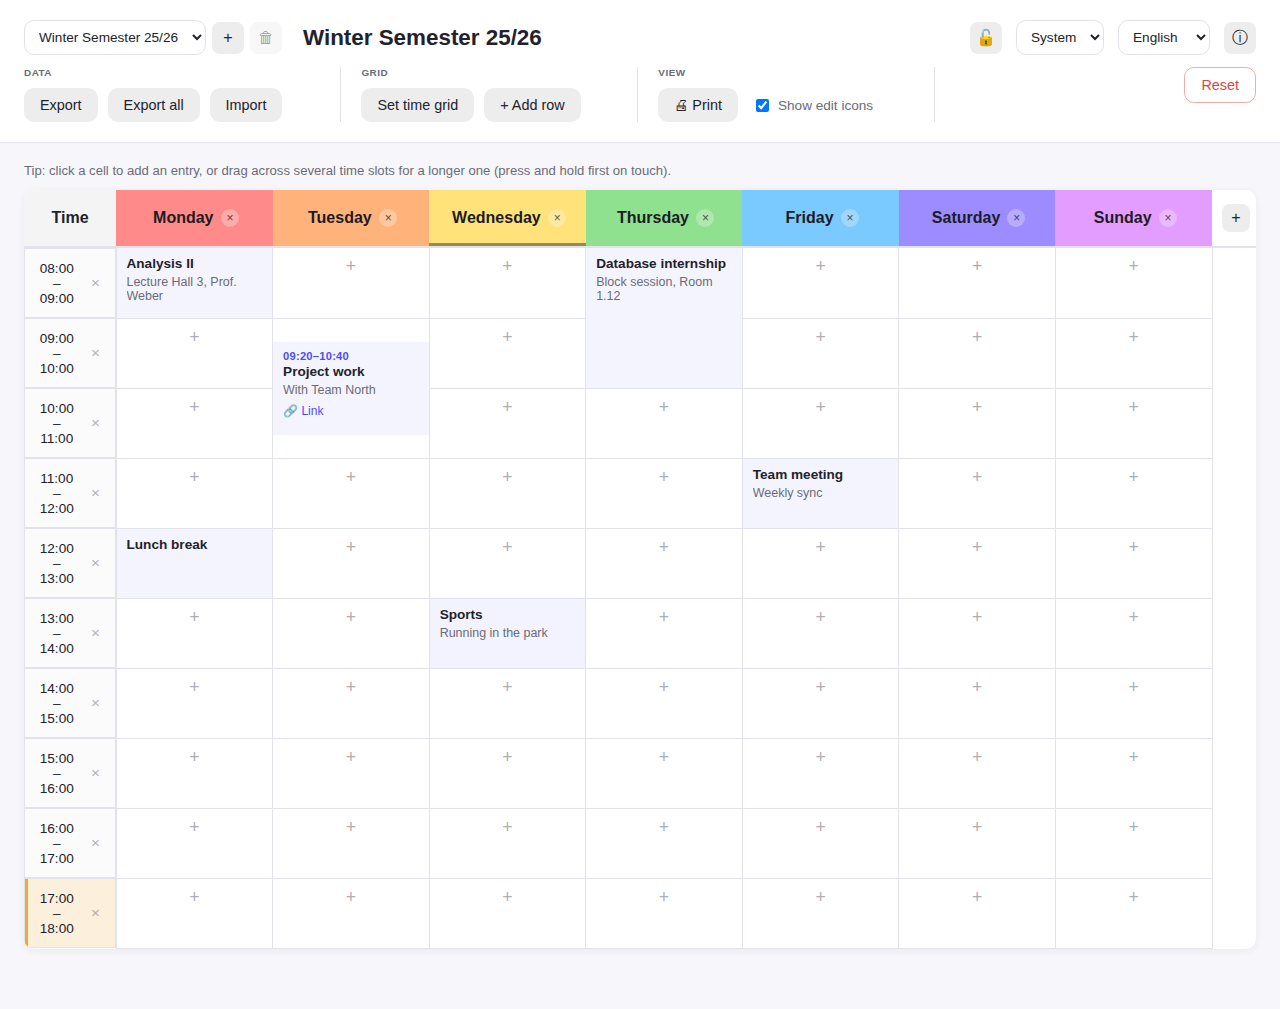
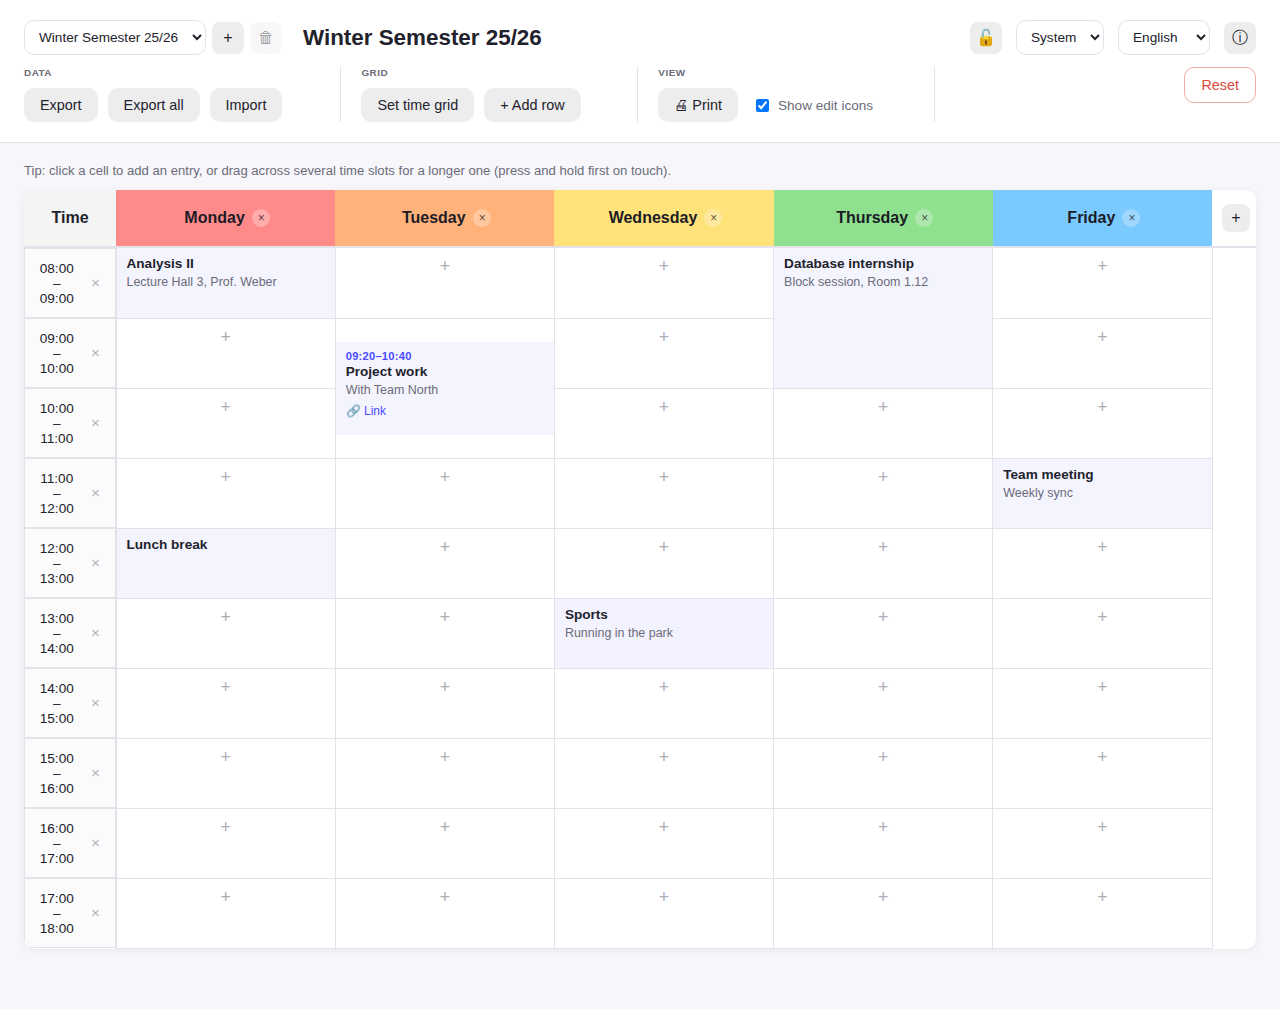
Add dark+locked screenshot, drop weekend from the university example, keep the lock button on the title's row
- New second example plan in scripts/screenshots.js: a German
  "Mein Alltag" everyday-life schedule (all 7 days, 08:00-22:00 in a
  2h raster) shown in dark mode with editing locked, for a new
  app-dark-locked.png. The existing university example now drops its
  Saturday/Sunday columns, since a semester timetable has no weekend
  classes.
- #editLockBtn now shares a .title-row flex wrapper with #planTitle
  instead of being a direct .header-top child, so it stays on the
  title's line instead of falling onto its own row once .header-top
  switches to a column layout below 600px — the locked+narrow header
  is back down to a single compact row.

diff --git a/scripts/screenshots.js b/scripts/screenshots.js
@@ -1,6 +1,7 @@
 // Generates the README screenshots from a live run of the app: a populated
-// weekly plan, the entry modal, and the time-raster modal. Run locally with
-// `npm run screenshots`, or automatically via
+// weekly plan (a university timetable, light mode), a second plan in dark
+// mode with editing locked, the entry modal, and the time-raster modal. Run
+// locally with `npm run screenshots`, or automatically via
 // .github/workflows/screenshots.yml on every push to main.
 import { chromium } from "playwright";
 import http from "node:http";
@@ -62,6 +63,22 @@ async function addEntry(page, { day, row, rowEnd, title, description, link, star
   await page.click("#saveEntryBtn");
 }
 
+// Removes a day column by its current display name (must be an exact match
+// of the full, non-abbreviated .day-name text).
+async function removeDayColumn(page, dayName) {
+  await page
+    .locator("th.day-col")
+    .filter({ has: page.locator(".day-name", { hasText: dayName }) })
+    .locator(".col-remove-btn")
+    .click();
+}
+
+// Removes the last (bottommost) row — used to trim the trailing empty rows
+// a raster narrower than the initial row count leaves behind.
+async function removeLastRow(page) {
+  await page.locator("#planBody tr").last().locator(".row-remove-btn").click();
+}
+
 async function main() {
   const server = await startServer();
   const browser = await chromium.launch();
@@ -79,6 +96,11 @@ async function main() {
   await page.keyboard.press("Control+A");
   await page.keyboard.type("Winter Semester 25/26");
   await page.keyboard.press("Enter");
+
+  // A university timetable has no weekend classes — drop those two columns
+  // rather than just leaving them empty.
+  await removeDayColumn(page, "Saturday");
+  await removeDayColumn(page, "Sunday");
 
   await page.click("#timePresetBtn");
   await page.fill("#rasterInterval", "60");
@@ -121,7 +143,8 @@ async function main() {
   // custom start/end time below is chosen to actually sit inside that hour
   // (a sub-raster range, not an unrelated time of day) — otherwise the
   // modal shows a start/end that has nothing to do with the row it's on.
-  await page.click('td.data-cell[data-day="Saturday"][data-row="2"]');
+  // Wednesday row 2 is otherwise unused by the entries above.
+  await page.click('td.data-cell[data-day="Wednesday"][data-row="2"]');
   await page.fill("#fieldTitle", "Study group");
   await page.fill("#fieldDescription", "Library, Group Room 4");
   await page.fill("#fieldStartTime", "10:15");
@@ -133,6 +156,42 @@ async function main() {
   await page.click("#timePresetBtn");
   await page.locator("#timeModalOverlay .modal").screenshot({ path: path.join(OUT_DIR, "time-modal.png") });
   await page.click("#cancelTimeModalBtn");
+
+  // A second, German example plan — an everyday "life" schedule rather than
+  // a university one, with the weekend filled in — used to show off dark
+  // mode and the edit lock together. Switching language first so the new
+  // plan gets German day-name defaults (Montag..Sonntag) to match.
+  await page.selectOption("#languageSwitcher", "de");
+  await page.click("#newPlanBtn");
+  await page.keyboard.press("Control+A");
+  await page.keyboard.type("Mein Alltag");
+  await page.keyboard.press("Enter");
+
+  // 2h raster from 08:00 to 22:00, so row 0 = 08:00-10:00, row 1 =
+  // 10:00-12:00, ..., row 6 = 20:00-22:00 (7 rows).
+  await page.click("#timePresetBtn");
+  await page.fill("#rasterInterval", "120");
+  await page.fill("#rasterStart", "08:00");
+  await page.fill("#rasterEnd", "22:00");
+  await page.click("#applyRasterBtn");
+
+  await addEntry(page, { day: "Donnerstag", row: 0, title: "Yoga" });
+  await addEntry(page, { day: "Montag", row: 1, title: "Sport", description: "Joggen im Park" });
+  await addEntry(page, { day: "Mittwoch", row: 2, title: "Mittagessen mit Oma" });
+  await addEntry(page, { day: "Sonntag", row: 2, title: "Familienessen" });
+  await addEntry(page, { day: "Samstag", row: 3, title: "Fußball", description: "Turnier in der Halle" });
+  await addEntry(page, { day: "Dienstag", row: 4, title: "Einkaufen" });
+  await addEntry(page, { day: "Freitag", row: 5, title: "Kino", description: "Mit Freunden" });
+
+  // The raster above only fills 7 of the 10 initial rows — trim the empty
+  // trailing ones so the screenshot doesn't end in blank rows.
+  await removeLastRow(page);
+  await removeLastRow(page);
+  await removeLastRow(page);
+
+  await page.selectOption("#themeSwitcher", "dark");
+  await page.click("#editLockBtn");
+  await page.screenshot({ path: path.join(OUT_DIR, "app-dark-locked.png"), fullPage: true });
 
   await browser.close();
   server.close();

diff --git a/index.html b/index.html
@@ -32,8 +32,10 @@
         <button id="newPlanBtn" class="icon-btn" type="button" data-i18n-title="newPlanTitle" data-i18n-aria-label="newPlanTitle">+</button>
         <button id="deletePlanBtn" class="icon-btn" type="button" data-i18n-title="deletePlanTitle" data-i18n-aria-label="deletePlanTitle">🗑</button>
       </div>
-      <h1 id="planTitle" contenteditable="true" spellcheck="false" data-i18n-title="renameHint"></h1>
-      <button id="editLockBtn" class="icon-btn" type="button" data-i18n-title="lockEditingTitle" data-i18n-aria-label="lockEditingTitle">🔓</button>
+      <div class="title-row">
+        <h1 id="planTitle" contenteditable="true" spellcheck="false" data-i18n-title="renameHint"></h1>
+        <button id="editLockBtn" class="icon-btn" type="button" data-i18n-title="lockEditingTitle" data-i18n-aria-label="lockEditingTitle">🔓</button>
+      </div>
       <select id="themeSwitcher" class="header-select" data-i18n-aria-label="themeSwitcherLabel">
         <option value="system" data-i18n="themeSystem"></option>
         <option value="light" data-i18n="themeLight"></option>

diff --git a/style.css b/style.css
@@ -155,8 +155,21 @@ body {
   cursor: not-allowed;
 }
 
+/* Groups the title with the lock button so they stay on one line even
+   when .header-top itself switches to a column layout below (narrow
+   screens, see media query further down) — otherwise the lock button
+   would fall onto its own row there, adding header height for no reason. */
+.title-row {
+  display: flex;
+  align-items: center;
+  gap: 8px;
+  flex: 1 1 auto;
+  min-width: 0;
+}
+
 .app-header h1 {
   flex: 1 1 auto;
+  min-width: 0;
   font-size: 1.4rem;
   margin: 0;
   padding: 2px 6px;
@@ -804,6 +817,14 @@ body.no-select {
   .header-select,
   #aboutBtn {
     align-self: flex-end;
+  }
+
+  /* Stretches .title-row to the header's full width so the title (flex: 1
+     1 auto) grows to fill it, pushing the lock button flush to the right
+     edge — same visual spot .header-select/#aboutBtn above land in —
+     instead of the button sitting right up against the title text. */
+  .title-row {
+    align-self: stretch;
   }
 
   /* Locked + narrow: even the plan switcher and theme/language selects go,

diff --git a/REQUIREMENTS.md b/REQUIREMENTS.md
@@ -490,6 +490,10 @@ Applying a preset/grid:
 - **Locked + narrow (≤ 600px):** the plan switcher and the theme/language selects also hide,
   leaving only the title and the lock button to unlock again — there just isn't room for a row
   of selects next to the title at phone width once the rest of the chrome is already gone.
+  `#planTitle` and `#editLockBtn` are grouped in a `.title-row` wrapper (its own small flex row)
+  specifically so the lock button stays on the same line as the title rather than falling onto
+  its own row when `.header-top` itself switches to a column layout below 600px — keeping the
+  locked+narrow header down to that one compact row instead of two.
 - **Locked actually blocks editing**, unlike `showEditIcons`/dark mode which are pure display
   preferences: click-to-add and drag-select (item 4, including the touch long-press path from
   item 24) no-op while locked (guarded once, at the shared `mousedown`/touch-long-press-timer

diff --git a/README.md b/README.md
@@ -22,9 +22,15 @@ are both fully supported.
   [EXPORT_FORMAT.md](EXPORT_FORMAT.md)
 - Switchable German/English, including automatic browser-language detection
 - Fully keyboard-operable (Enter saves, Escape discards)
+- Light/dark/system theme, plus a one-tap edit lock for a clean, read-only "just look and use
+  it" view
 
 Details, architecture, and deliberate scope decisions: see [REQUIREMENTS.md](REQUIREMENTS.md).
 Notes for contributing/further development: see [CONTRIBUTING.md](CONTRIBUTING.md).
+
+### Dark mode with editing locked
+
+![Dark mode, edit lock enabled](screenshots/app-dark-locked.png)
 
 ### Adding an entry
 
